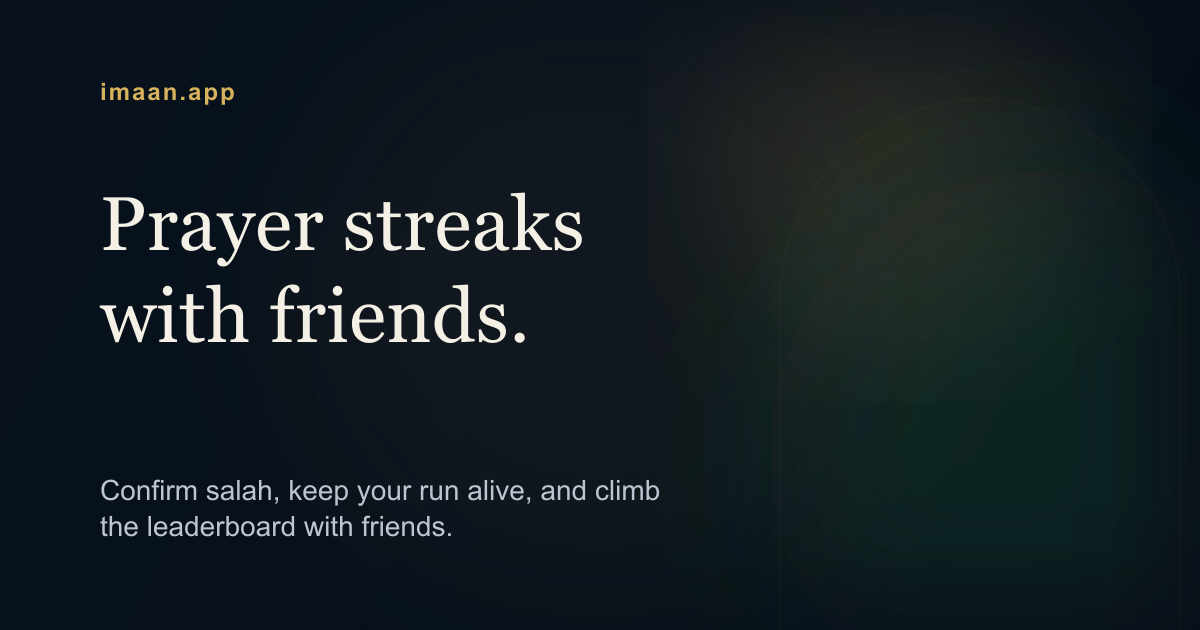
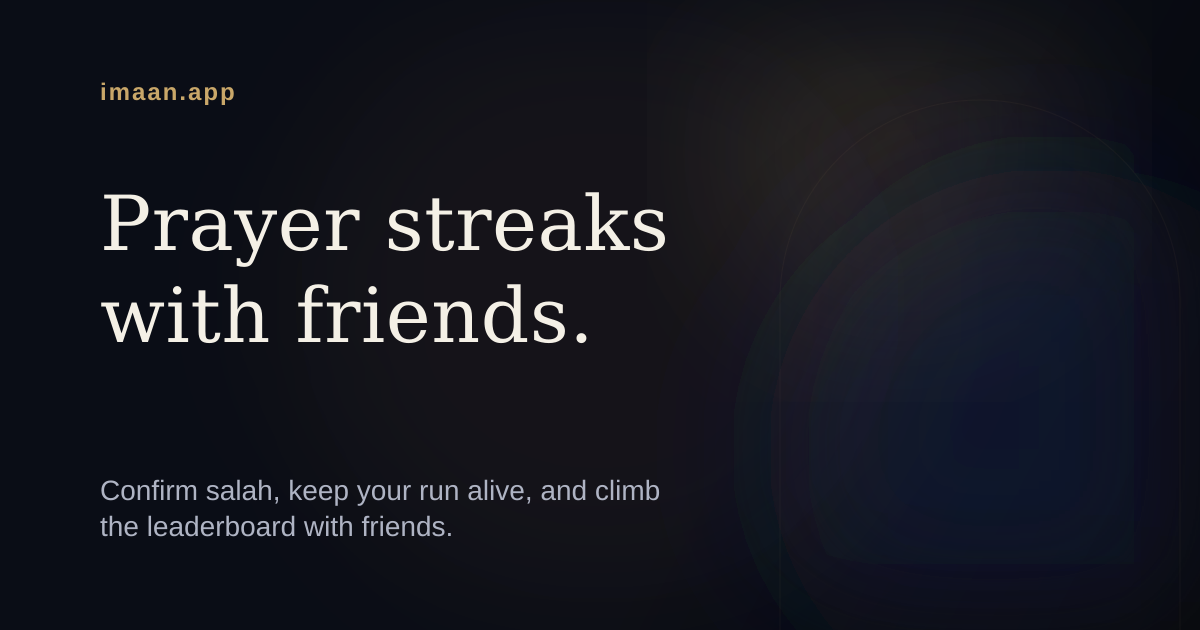
Restyle imaan landing page

diff --git a/apps/landing/src/styles.css b/apps/landing/src/styles.css
@@ -1,23 +1,32 @@
 :root {
   color-scheme: dark;
-  --bg: #07111d;
-  --surface: rgba(10, 18, 31, 0.78);
-  --surface-border: rgba(255, 255, 255, 0.08);
-  --surface-border-strong: rgba(255, 255, 255, 0.14);
-  --text: #f5f0e6;
-  --muted: #bdc5d2;
-  --muted-strong: #d9e0ea;
-  --gold: #d6b25c;
-  --gold-bright: #ffd36a;
-  --gold-soft: rgba(214, 178, 92, 0.2);
-  --green-soft: rgba(37, 117, 70, 0.22);
-  --blue-soft: rgba(67, 101, 168, 0.18);
-  --success: #8cd1a1;
-  --danger: #f1a3a3;
+  /* imaan v2 design tokens — ported from pathofnur-utility/src/theme/tokens.ts (MAG-5) */
+  --bg: #0a0d16;
+  --card: #12161f;
+  --surface: rgba(18, 22, 31, 0.78);
+  --surface-strong: rgba(18, 22, 31, 0.94);
+  --surface-border: #1b2130;
+  --surface-border-strong: #262e42;
+  --text: #f4f0e6;
+  --muted: #afb4c4;
+  --muted-strong: #cfd3e0;
+  --tertiary: #7e8498;
+  /* Ember: primary CTA / confirmed-active accent. Gold: secondary / wayfinding accent. */
+  --ember: #e2984c;
+  --ember-bright: #eca868;
+  --ember-soft: rgba(226, 152, 76, 0.2);
+  --gold: #c9a769;
+  --gold-soft: rgba(201, 167, 105, 0.2);
+  --blue-soft: rgba(27, 42, 74, 0.4);
+  --on-accent: #1a1208;
+  --success: #8fbf9a;
+  --danger: #e8929b;
   --max: 1180px;
   --radius-xl: 36px;
   --radius-lg: 26px;
   --radius-pill: 999px;
+  --font-ui: "Zalando Sans", "Avenir Next", "Segoe UI", sans-serif;
+  --font-display: "Lora", "Iowan Old Style", "Palatino Linotype", serif;
 }
 
 * {
@@ -32,12 +41,12 @@ body {
 
 body {
   margin: 0;
-  font-family: "Avenir Next", "Segoe UI", sans-serif;
+  font-family: var(--font-ui);
   color: var(--text);
   background:
-    radial-gradient(circle at 82% 16%, rgba(214, 178, 92, 0.14), transparent 24%),
-    radial-gradient(circle at 18% 8%, rgba(37, 117, 70, 0.18), transparent 22%),
-    linear-gradient(180deg, #06120d 0%, #07110c 58%, #050913 100%);
+    radial-gradient(circle at 82% 16%, rgba(201, 167, 105, 0.12), transparent 24%),
+    radial-gradient(circle at 18% 8%, rgba(27, 42, 74, 0.38), transparent 22%),
+    linear-gradient(180deg, #0a0d16 0%, #0a0d16 58%, #05070c 100%);
 }
 
 a {
@@ -124,7 +133,7 @@ input {
   gap: 10px;
   padding: 8px 14px;
   border-radius: 16px;
-  background: rgba(10, 18, 31, 0.72);
+  background: rgba(18, 22, 31, 0.72);
   max-width: 100%;
 }
 
@@ -184,8 +193,8 @@ input {
 
 .hero-copy h1,
 .screen-copy h2 {
-  font-family: "Iowan Old Style", "Palatino Linotype", serif;
-  font-weight: 700;
+  font-family: var(--font-display);
+  font-weight: 600;
 }
 
 .hero-copy h1 {
@@ -229,24 +238,24 @@ input {
 }
 
 .waitlist-row:focus-within {
-  border-color: rgba(214, 178, 92, 0.42);
+  border-color: rgba(201, 167, 105, 0.46);
   box-shadow:
-    0 0 0 1px rgba(214, 178, 92, 0.18),
-    0 0 0 7px rgba(214, 178, 92, 0.06);
+    0 0 0 1px rgba(201, 167, 105, 0.2),
+    0 0 0 7px rgba(201, 167, 105, 0.08);
 }
 
 .waitlist-row[data-invalid="true"] {
-  border-color: rgba(241, 163, 163, 0.54);
-  box-shadow: 0 0 0 1px rgba(241, 163, 163, 0.14);
+  border-color: rgba(232, 146, 155, 0.54);
+  box-shadow: 0 0 0 1px rgba(232, 146, 155, 0.14);
 }
 
 .waitlist-form[data-state="submitting"] .waitlist-row {
-  box-shadow: 0 0 0 1px rgba(214, 178, 92, 0.12);
+  box-shadow: 0 0 0 1px rgba(226, 152, 76, 0.14);
 }
 
 .waitlist-form[data-state="success"] .waitlist-row {
-  border-color: rgba(214, 178, 92, 0.3);
-  box-shadow: 0 0 0 1px rgba(214, 178, 92, 0.12);
+  border-color: rgba(226, 152, 76, 0.32);
+  box-shadow: 0 0 0 1px rgba(226, 152, 76, 0.14);
 }
 
 .waitlist-input-shell {
@@ -284,7 +293,7 @@ input {
 }
 
 .waitlist-input::placeholder {
-  color: rgba(189, 197, 210, 0.74);
+  color: rgba(175, 180, 196, 0.76);
 }
 
 .waitlist-input:-webkit-autofill,
@@ -311,8 +320,8 @@ input {
 }
 
 .button-primary {
-  color: #08111d;
-  background: linear-gradient(180deg, #e1c47a 0%, #c99b43 100%);
+  color: var(--on-accent);
+  background: linear-gradient(180deg, var(--ember-bright) 0%, var(--ember) 100%);
 }
 
 .button-primary:disabled {
@@ -367,21 +376,21 @@ input {
 }
 
 .waitlist-form[data-state="submitting"] .waitlist-button {
-  box-shadow: 0 16px 32px rgba(201, 155, 67, 0.2);
+  box-shadow: 0 16px 32px rgba(226, 152, 76, 0.22);
 }
 
 .waitlist-form[data-state="success"] .waitlist-button {
   min-width: 64px;
   padding: 0;
-  box-shadow: 0 18px 36px rgba(214, 178, 92, 0.2);
+  box-shadow: 0 18px 36px rgba(226, 152, 76, 0.22);
 }
 
 .waitlist-spinner {
   width: 16px;
   height: 16px;
   border-radius: 999px;
-  border: 2px solid rgba(8, 17, 29, 0.2);
-  border-top-color: #08111d;
+  border: 2px solid rgba(26, 18, 8, 0.2);
+  border-top-color: var(--on-accent);
   animation: waitlist-spin 720ms linear infinite;
 }
 
@@ -410,7 +419,7 @@ input {
   display: grid;
   place-items: center;
   padding: 24px;
-  background: rgba(4, 10, 17, 0.54);
+  background: rgba(5, 7, 12, 0.6);
   backdrop-filter: blur(18px);
   opacity: 0;
   pointer-events: none;
@@ -431,8 +440,8 @@ input {
   border-radius: 28px;
   border: 1px solid var(--surface-border-strong);
   background:
-    radial-gradient(circle at top, rgba(214, 178, 92, 0.14), transparent 34%),
-    linear-gradient(180deg, rgba(10, 18, 31, 0.98) 0%, rgba(5, 12, 20, 0.96) 100%);
+    radial-gradient(circle at top, rgba(201, 167, 105, 0.14), transparent 34%),
+    linear-gradient(180deg, rgba(18, 22, 31, 0.98) 0%, rgba(10, 13, 22, 0.97) 100%);
   box-shadow: 0 34px 72px rgba(0, 0, 0, 0.42);
   opacity: 0;
   transform: translateY(16px) scale(0.96);
@@ -478,7 +487,8 @@ input {
 .waitlist-alert-title {
   margin: 0;
   padding-right: 36px;
-  font-family: "Iowan Old Style", "Palatino Linotype", serif;
+  font-family: var(--font-display);
+  font-weight: 600;
   font-size: clamp(1.6rem, 4vw, 2rem);
   line-height: 1;
 }
@@ -560,12 +570,12 @@ input {
   background: var(--gold-soft);
 }
 
-.hero-glow-green {
+.hero-glow-blue {
   bottom: 82px;
   left: 22px;
   width: 220px;
   height: 220px;
-  background: var(--green-soft);
+  background: var(--blue-soft);
 }
 
 .app-shot-cluster {
@@ -578,12 +588,12 @@ input {
 .app-shot {
   position: absolute;
   overflow: hidden;
-  border: 1px solid rgba(255, 255, 255, 0.12);
+  border: 1px solid var(--surface-border-strong);
   border-radius: 38px;
-  background: #06100b;
+  background: #05070c;
   box-shadow:
     0 34px 84px rgba(0, 0, 0, 0.48),
-    0 0 0 1px rgba(255, 211, 106, 0.06);
+    0 0 0 1px rgba(226, 152, 76, 0.08);
 }
 
 .app-shot picture,
@@ -1178,7 +1188,8 @@ input {
 
 .faq-heading h2 {
   margin: 0;
-  font-family: "Iowan Old Style", "Palatino Linotype", serif;
+  font-family: var(--font-display);
+  font-weight: 600;
   font-size: clamp(2rem, 4vw, 3rem);
   line-height: 0.98;
 }
@@ -1343,7 +1354,7 @@ input {
     height: 132px;
   }
 
-  .hero-glow-green {
+  .hero-glow-blue {
     bottom: 36px;
     left: 8%;
     width: 128px;

diff --git a/apps/landing/index.html b/apps/landing/index.html
@@ -34,9 +34,15 @@
     />
     <meta name="twitter:image" content="https://imaan.app/og-image.png" />
     <meta name="twitter:image:alt" content="imaan.app waitlist preview" />
-    <meta name="theme-color" content="#08111d" />
+    <meta name="theme-color" content="#0A0D16" />
     <link rel="icon" type="image/png" href="/favicon.png" />
     <link rel="apple-touch-icon" href="/logo.png" />
+    <link rel="preconnect" href="https://fonts.googleapis.com" />
+    <link rel="preconnect" href="https://fonts.gstatic.com" crossorigin />
+    <link
+      href="https://fonts.googleapis.com/css2?family=Lora:ital,wght@0,500;0,600;1,500&family=Zalando+Sans:wght@400;500;600;700;800&display=swap"
+      rel="stylesheet"
+    />
     <script type="application/ld+json">
       {
         "@context": "https://schema.org",

diff --git a/apps/landing/src/main.js b/apps/landing/src/main.js
@@ -97,7 +97,7 @@ app.innerHTML = `
 
         <div class="hero-stage" aria-hidden="true">
           <div class="hero-glow hero-glow-gold"></div>
-          <div class="hero-glow hero-glow-green"></div>
+          <div class="hero-glow hero-glow-blue"></div>
           <div class="app-shot-cluster">
             <div class="app-shot app-shot-primary">
               <picture>
